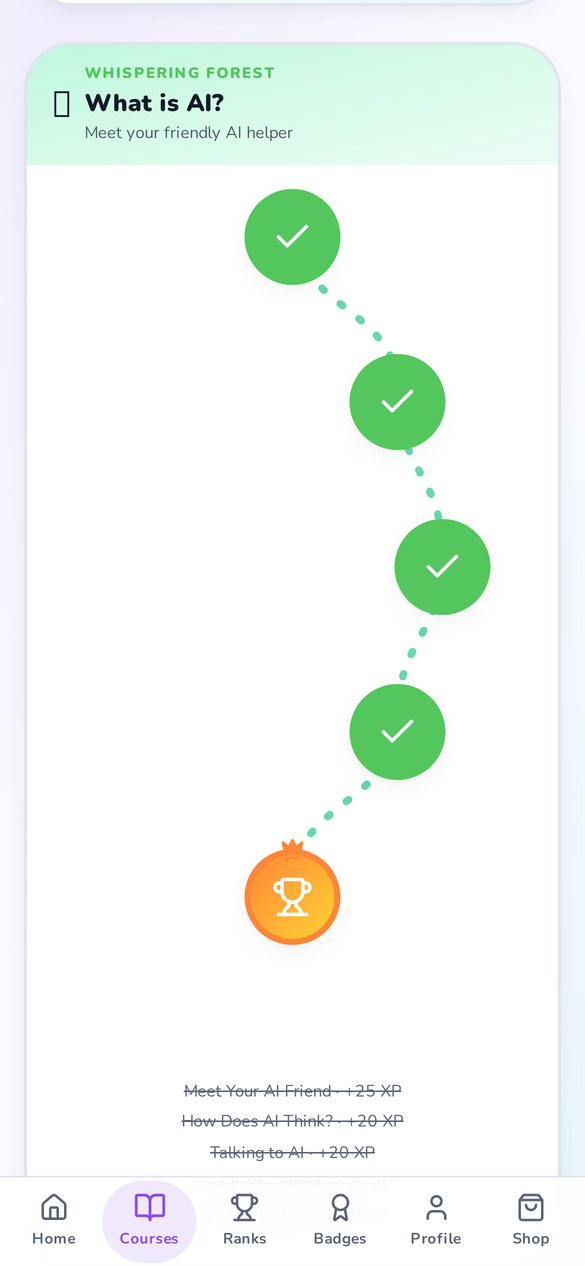
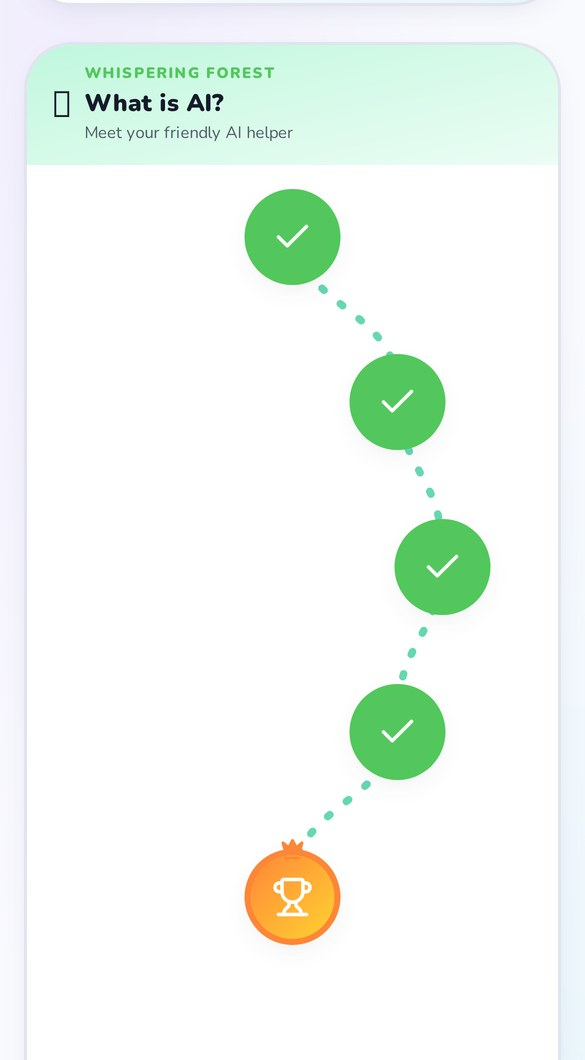
Changes

diff --git a/src/routes/landing.tsx b/src/routes/landing.tsx
@@ -215,7 +215,7 @@ function PhoneMockup() {
             src={courseMapShot}
             alt="The AIED app's course map, showing completed lessons along a path through the What is AI? unit"
             width={585}
-            height={1266}
+            height={1060}
             loading="lazy"
             className="block w-full"
           />
